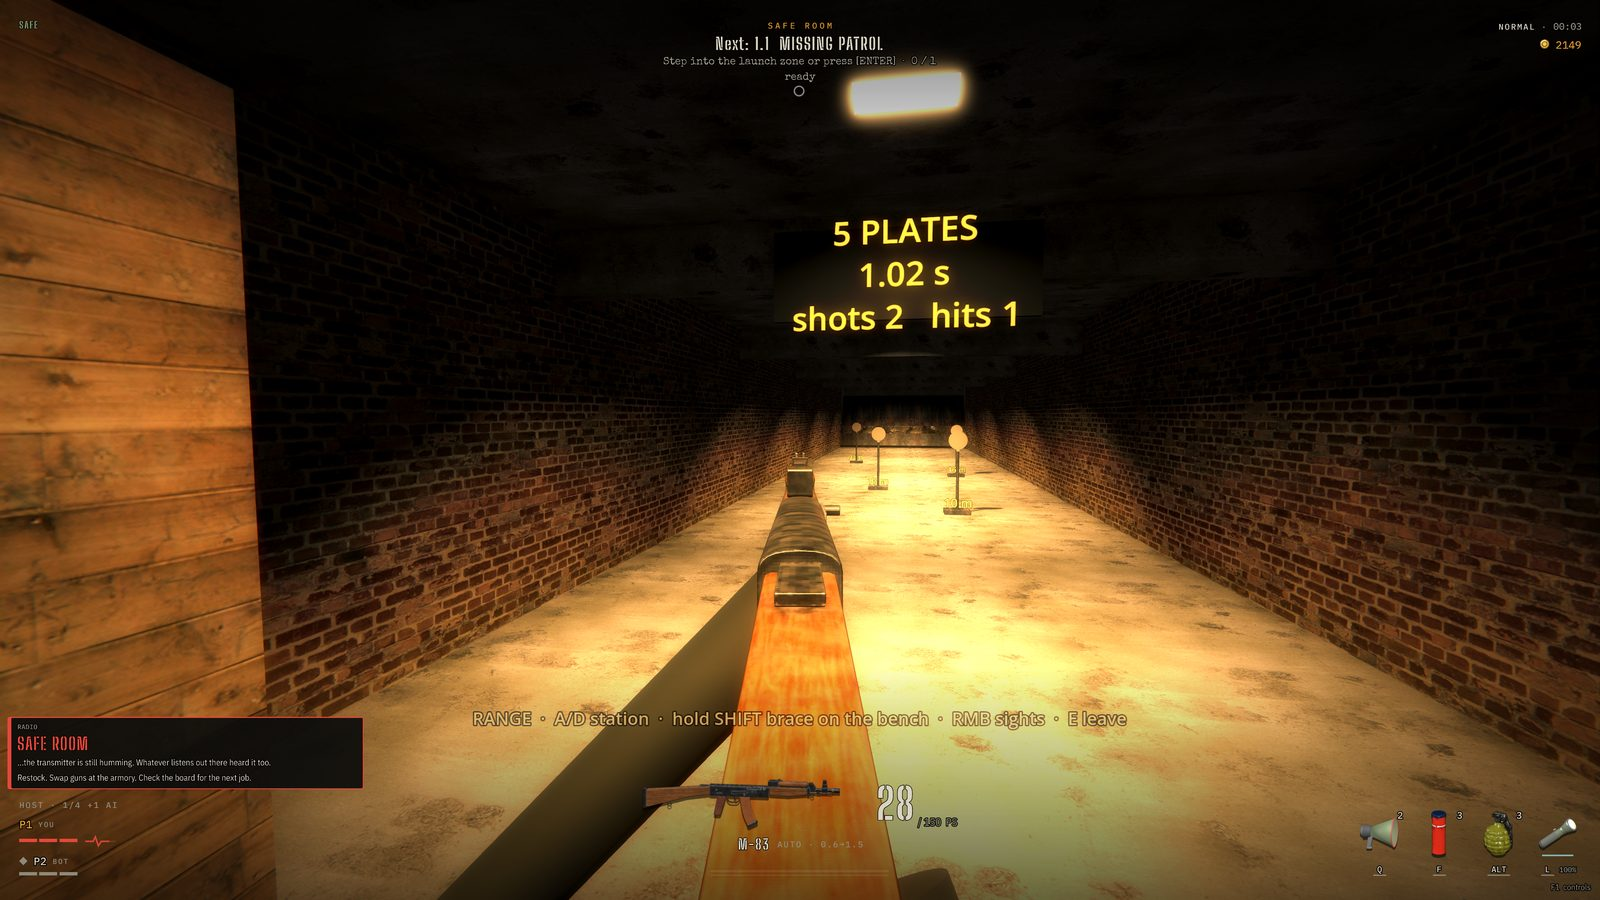
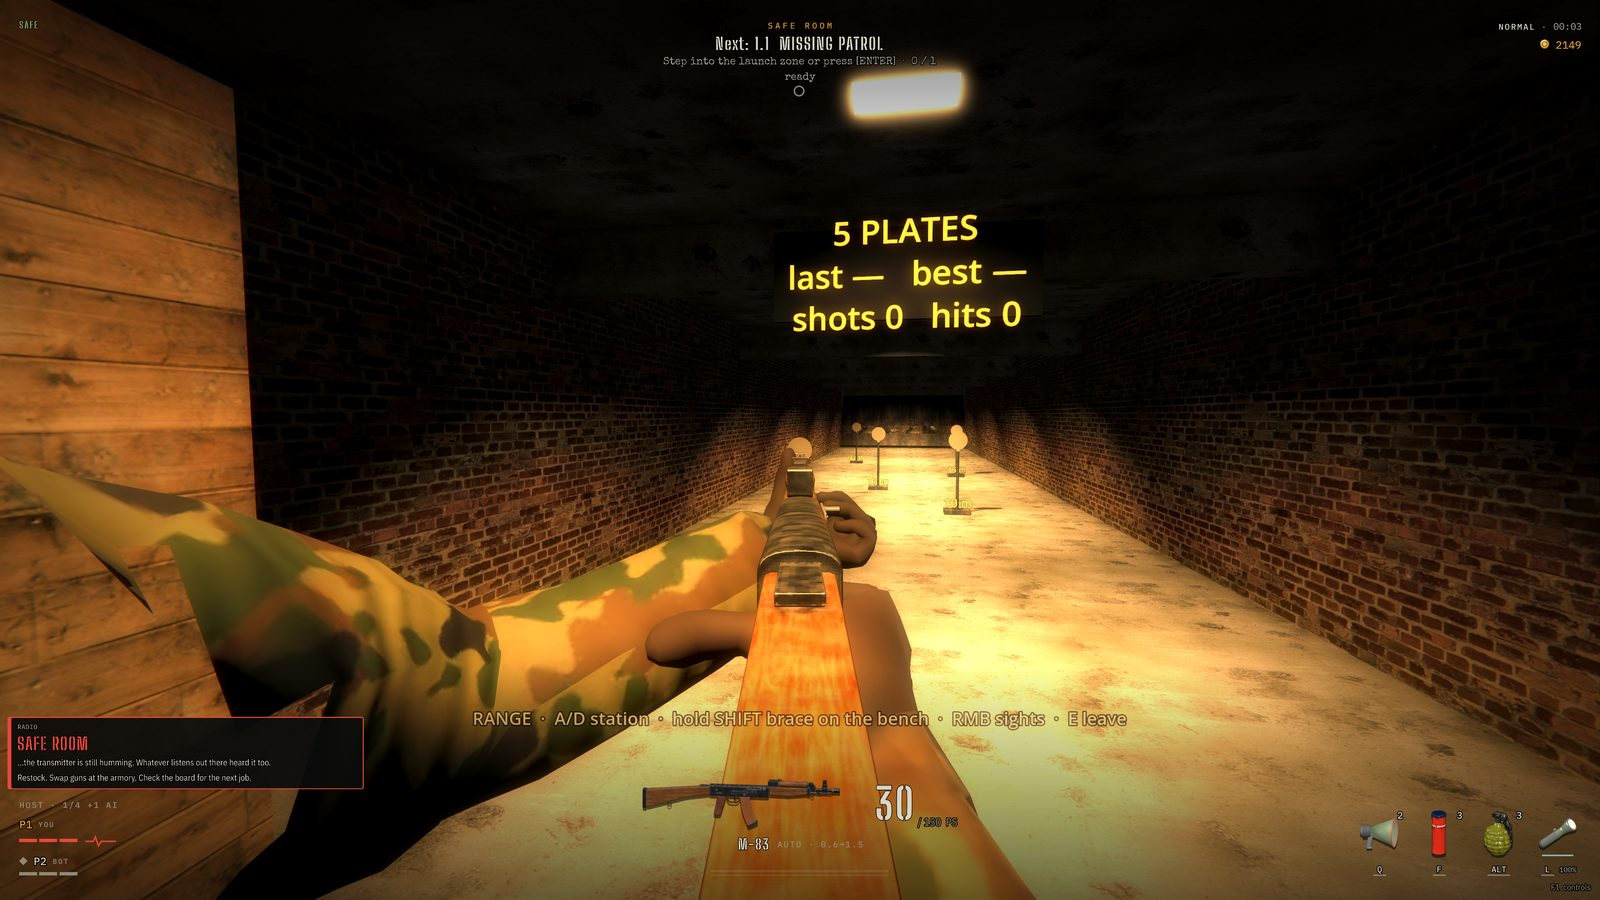
Strzelnica FPP: ręce z modelu postaci gracza
fp_arms.gd: osobna instancja char3d (wygląd i strój gracza) bez podglądu 2D, siatki
przycięte do trójkątów rąk, IK dłoni na chwycie i łożu oraz palce z char3d. Model ustawiony
od broni: bark na stopce kolby, tułów bokiem; pistolet w postawie równoramiennej.
Dev --rangeslot=N.

Changed region(s): [[0.0, 0.4978, 0.6562, 1.0], [0.5, 0.28, 0.625, 0.3733], [0.625, 0.3422, 0.6562, 0.3733]]

diff --git a/CHANGELOG.md b/CHANGELOG.md
@@ -375,4 +375,4 @@ wystarcza im historia gita. Serie PR-ów prowadzone własnym planem (np. `AUDIO_
 | 1.7.331 | 2026-10-20 | **Broń: historia — zabójstwa i nacięcia na kolbie.** Etap 5b planu `GUNSMITH_PLAN.md`. Każda broń gracza liczy zabójstwa (oględziny i warsztat pokazują „KILLS”), a za każdą elitę i bossa dostaje rysę nożem na kolbie (pistolet — z tyłu zamka), za bossa głęboką; najwyżej 12. Rysy siedzą na prawdziwej powierzchni modelu po obu bokach i widać je w rękach postaci (także u innych graczy), na ławie w warsztacie i w oględzinach; toast przy nowym nacięciu. Serwer rozpoznaje rangę zabitego i przesyła ją niezawodnie. Dev: `--shotnotch=N`. Testy w `--weapontest`. |
 | 1.7.332 | 2026-10-20 | **Widok 3D: poświata znajdziek przy przedmiocie.** Światło znajdźki (łup, zaopatrzenie, broń, magazynek) stało w 3D jak każde światło 1 m przed płaszczyzną gry, z zasięgiem co najmniej 3 m — przedmiot stoi 0,2 m za nią, a kamera patrzy lekko z góry, więc jasna plama na ziemi wypadała na ekranie pod przedmiotem, a sam przedmiot był oświetlony od dołu-przodu (cień w górę). Teraz poświata wisi tuż nad przedmiotem (z 0,05 m) i ma zasięg 1,2–4 m: otula przedmiot, cień pada po ziemi. |
 | 1.7.333 | 2026-10-20 | **Broń: części jako znaleziska.** Etap 5c planu `GUNSMITH_PLAN.md`. Ukryte skrytki misji poza złomem zawierają część broni, którą drużyna ma (losową, jeszcze nieodblokowaną), a elity w 30 % zostawiają część na ziemi — widać jej model z poświatą, bierze ją ten, kto podejdzie. Znaleziona część czeka do ewakuacji jak łup złomu: po udanej ewakuacji jest odblokowana dla całej drużyny za darmo, wipe ją zabiera. Toasty przy znalezieniu i odblokowaniu, w warsztacie dopisek „found — extract”. Dev: `--shotpart`. Testy w `--weapontest`. |
-| 1.7.335 | 2026-10-20 | **Strzelnica FPP: szpic (`--range3d`).** Etap 0 planu `RANGE_FPS_PLAN.md`. Flaga `--range3d` stawia lokalnego gracza w kryjówce i przełącza obraz na widok z oczu w betonowym tunelu strzelnicy (własny świat 3D: ława ze stanowiskami, przesłony, kulochwyt, lampy, pięć stalowych blach na 7–20 m, tablica z czasem). Broń strzela tym samym kontrolerem co na misji (`weapon_controller.range_sink`): magazynek, przeładowania, zacięcia, gorąca lufa i podrzut działają bez zmian, podrzut unosi kamerę, a rozrzut 2D (±kąt) staje się stożkiem 3D o tym samym kącie. Amunicja ćwiczebna (`practice`): przeładowanie nie bierze naboi z zapasu, strzały nie zużywają broni, magazynek z resztkami nie spada w kryjówce. Mysz rozgląda się, A/D zmieniają stanowisko, przytrzymany Shift to przyklęk z bronią na ławie (oparcie), PPM celuje przez przyrządy (nowa akcja `aim_sights`, cios na strzelnicy wyłączony), E wychodzi. Trafienia liczone wzorem (promień kontra blachy i ściany tunelu) — jawny, wąski wyjątek od symulacji 2D w CLAUDE.md. Test `--rangetest` w CI. Do zrzutów: `--rangeads`, `--rangelook=YAW,PITCH`, `--rangefire=S`. Bez wejścia z kryjówki (etap 1). |
+| 1.7.335 | 2026-10-20 | **Strzelnica FPP: szpic (`--range3d`).** Etap 0 planu `RANGE_FPS_PLAN.md`. Flaga `--range3d` stawia lokalnego gracza w kryjówce i przełącza obraz na widok z oczu w betonowym tunelu strzelnicy (własny świat 3D: ława ze stanowiskami, przesłony, kulochwyt, lampy, pięć stalowych blach na 7–20 m, tablica z czasem). Broń strzela tym samym kontrolerem co na misji (`weapon_controller.range_sink`): magazynek, przeładowania, zacięcia, gorąca lufa i podrzut działają bez zmian, podrzut unosi kamerę, a rozrzut 2D (±kąt) staje się stożkiem 3D o tym samym kącie. Amunicja ćwiczebna (`practice`): przeładowanie nie bierze naboi z zapasu, strzały nie zużywają broni, magazynek z resztkami nie spada w kryjówce. Mysz rozgląda się, A/D zmieniają stanowisko, przytrzymany Shift to przyklęk z bronią na ławie (oparcie), PPM celuje przez przyrządy (nowa akcja `aim_sights`, cios na strzelnicy wyłączony), E wychodzi. Trafienia liczone wzorem (promień kontra blachy i ściany tunelu) — jawny, wąski wyjątek od symulacji 2D w CLAUDE.md. Test `--rangetest` w CI. Ręce to model postaci gracza (`fp_arms.gd`: siatka i ubranie przycięte do kości rąk, IK dłoni na chwycie i łożu z `char3d.gd`, palce zaciśnięte; model ustawiony od kolby w barku, tułów bokiem; pistolet w postawie równoramiennej). Obraz renderuje się w pikselach okna (nie w 640×360 interfejsu). Do zrzutów: `--rangeslot=N`, `--rangeads`, `--rangelook=YAW,PITCH`, `--rangefire=S`. Bez wejścia z kryjówki (etap 1). |

diff --git a/RANGE_FPS_PLAN.md b/RANGE_FPS_PLAN.md
@@ -95,7 +95,7 @@ Szacunek: etap 0 to jedna sesja, etap 1 to 2–3 PR-y, etap 2 to 1–2 PR-y.
 ## 7. Wyniki etapu 0 (2026-10-20, 1.7.335)
 
 Uruchomienie: `godot --path prototype -- --host --range3d` (gra startuje w kryjówce, gracz od razu na strzelnicy; [E] wraca do kryjówki).
-Test: `godot --headless --path prototype -- --host --rangetest --autoquit=60` (20/20). Zrzuty: `concepts/range3d_hip.jpg`, `concepts/range3d_ads.jpg`.
+Test: `godot --headless --path prototype -- --host --rangetest --autoquit=60` (20/20). Zrzuty: `concepts/range3d_hip.jpg`, `concepts/range3d_ads.jpg`, `concepts/range3d_pistol.jpg`.
 
 | Element | Wynik |
 |---|---|
@@ -103,9 +103,10 @@ Test: `godot --headless --path prototype -- --host --rangetest --autoquit=60` (2
 | Podrzut | Uniesienie kamery czuć: seria 5 strzałów z M-83 bez ściągania myszą idzie ok. 1,3 m w górę na 30 m (`wc.climb` do ~2,4°). Strzał bierze podrzut sprzed siebie (jak `player._local_brain` w 2D) — pierwsza wersja liczyła go podwójnie i chybiała. |
 | Rozrzut | Stożek 3D o kącie `jitter_deg` z gry. **Wniosek do strojenia:** M-83 ma 0,8° (≈ 28 MOA) — na 7–13 m każda kula trafia blachę ⌀ 30 cm, na 16 m już 2 strzały, na 20 m 4 (test). To dużo jak na karabin z pierwszego strzału; w grze 2D nie było tego widać. P-83 ma 0,35°, czyli celniej niż M-83. Do decyzji przy etapie 2 (grupa na papierze pokaże to w cm). |
 | Przyrządy | Linia celownicza liczona z najwyższego punktu modelu broni (wierzch muszki i szczerbinki) — obraz poprawny dla M-83 (pokrywa zamka, szczerbinka i muszka w osi). Kolba widoczna w dole kadru. Dokładne punkty `sight` z `gun_proc.py` zostają w etapie 2. |
-| Ręce | **Nie próbowałem rąk z `char3d.gd`**: poza jest budowana pod widok z boku (tułów obrócony do kamery o 22°, celowanie w płaszczyźnie postaci, model w `view3d` przenoszony między światami) — przeróbka na widok z oczu to osobna praca. W szpicu są proste rękawy i rękawice (walce i kapsuły) — czytelne, ale wyglądają jak rury; do zrobienia porządnie (model rąk FPP albo `char3d` w trybie FPP) przed etapem 1. |
+| Ręce | **Model postaci gracza** (`fp_arms.gd`): osobna instancja `char3d.gd` (ten sam wygląd i strój co w grze) bez podglądu 2D, siatki postaci i ubrania przycięte do trójkątów z wagą ≥ 0,5 na kościach rąk (tułów i głowa weszłyby w kamerę), IK z `char3d` (`_arm_ik`, `_hand_target`, `_left_hold`, `_set_hand`, palce). Model wisi na broni, nie na oczach: zagłębienie prawego barku na stopce kolby, tułów obrócony o 32° (inaczej lewa ręka nie sięgała łoża); pistolet — postawa równoramienna, barki 15 cm pod linią wzroku, ręce na ok. 55 cm. Przeładowanie prowadzi lewą dłoń torem z `char3d._left_path`. Do poprawy: dłonie gołe (taki strój postaci), przy biodrze lewa dłoń częściowo za bronią, cięcie rękawa przy barku widać przy skrajnym obrocie w lewo. Walce i kapsuły zostały jako zapas, gdy model postaci się nie wczyta. |
 | Świat | Zamiast tunelu za tylną ścianą magazynu (§2.1) strzelnica ma **własny świat 3D** w SubViewport — prościej i bez wpływu na oświetlenie kryjówki; widok kryjówki jest wtedy schowany i nie renderuje się. Wejście przez drzwi z przejściem kamery zostaje w etapie 1. |
-| Wydajność | 60 FPS przy vsync, 4K, RTX 3080 (`--print-fps`, seria ognia); 6 lamp, 3 z cieniami. |
+| Rozdzielczość | Pierwsza wersja renderowała tunel w 640×360 (rozmiar płótna interfejsu, `SubViewportContainer.stretch`) i rozciągała do okna. Teraz SubViewport ma rozmiar okna × skala „Effects quality” (jak `view3d`). |
+| Wydajność | 60 FPS przy vsync, 4K, RTX 3080 (`--print-fps`, seria ognia, z rękami); 6 lamp, 3 z cieniami. |
 | Dźwięk | Strzał i przeładowanie z gry; blacha dzwoni niepozycyjnie z głośnością od odległości. |
 | Czego nie ma | wejścia z kryjówki, zapisu rekordu, sieci (wynik tylko lokalnie), broni ciągłych i WRATH-4 (strzelają, ale bez obrazu w tunelu), łusek i dymu w 3D, opcji FOV i czułości, pada poza rozglądaniem. |
 

diff --git a/prototype/README.md b/prototype/README.md
@@ -226,7 +226,7 @@ godot --headless --path . -- --host --wipetest --autoquit=8
 godot --headless --path . -- --host --missiontest --autoquit=9
 ```
 
-Flagi: `--mission=ID` (mapa startowa), `--maptest`, `--gentest`, `--ridetest`, `--ridehost`, `--rideclient`, `--host`, `--steam-host`, `--steam-join=ID`, `--difficulty=easy|normal|hard`, `--nightshift` (tryb Nocny Dyżur), `--shifttest`, `--stalkertest`, `--enemytest`, `--rangetest`, `--range3d` (szpic strzelnicy FPP: gracz od razu w tunelu; `--rangeads` przyrządy bez PPM, `--rangelook=YAW,PITCH` kierunek patrzenia w °, `--rangefire=S` spust przez S s od 1 s — do zrzutów), `--elite=RODZAJ` (dev: elita obok pierwszego Trzoska mapy, np. `--elite=kaplan`), `--sessionlog=KATALOG`, `--noclips` (postacie bez klipów animacji, same pozy z kodu), `--charset=tripo` (stare stylizowane modele postaci z Tripo zamiast realistycznych), `--shotrun` (gracz 1 biegnie w prawo podczas `--shot`), `--nohud` (dev: bez HUD-u, celownika i plakietek graczy — czyste ujęcia do zrzutów i nagrań traileru), `--join=IP`, `--port=N` (domyślnie 8910; np. testy przy otwartym oknie gry), `--autoquit=N`, `--shot=PLIK.png [--shotat=KOLUMNA]` (zapis obrazu z gry), `--stealthtest[=N]`, `--wipetest[=OPÓŹNIENIE]`, `--missiontest`, `--weapontest`, `--weaptestnet`, `--weaptestclient`.
+Flagi: `--mission=ID` (mapa startowa), `--maptest`, `--gentest`, `--ridetest`, `--ridehost`, `--rideclient`, `--host`, `--steam-host`, `--steam-join=ID`, `--difficulty=easy|normal|hard`, `--nightshift` (tryb Nocny Dyżur), `--shifttest`, `--stalkertest`, `--enemytest`, `--rangetest`, `--range3d` (szpic strzelnicy FPP: gracz od razu w tunelu; `--rangeslot=N` broń ze slotu, `--rangeads` przyrządy bez PPM, `--rangelook=YAW,PITCH` kierunek patrzenia w °, `--rangefire=S` spust przez S s od 1 s — do zrzutów), `--elite=RODZAJ` (dev: elita obok pierwszego Trzoska mapy, np. `--elite=kaplan`), `--sessionlog=KATALOG`, `--noclips` (postacie bez klipów animacji, same pozy z kodu), `--charset=tripo` (stare stylizowane modele postaci z Tripo zamiast realistycznych), `--shotrun` (gracz 1 biegnie w prawo podczas `--shot`), `--nohud` (dev: bez HUD-u, celownika i plakietek graczy — czyste ujęcia do zrzutów i nagrań traileru), `--join=IP`, `--port=N` (domyślnie 8910; np. testy przy otwartym oknie gry), `--autoquit=N`, `--shot=PLIK.png [--shotat=KOLUMNA]` (zapis obrazu z gry), `--stealthtest[=N]`, `--wipetest[=OPÓŹNIENIE]`, `--missiontest`, `--weapontest`, `--weaptestnet`, `--weaptestclient`.
 
 **Renderer:** Forward+ (`project.godot`); bez Vulkana / D3D12 silnik wraca do OpenGL, a `--rendering-driver opengl3` wymusza tryb zgodności (zrzuty pod xvfb). W trybie zgodności widok 3D działa bez SSAO, SSIL i mgły wolumetrycznej.
 
